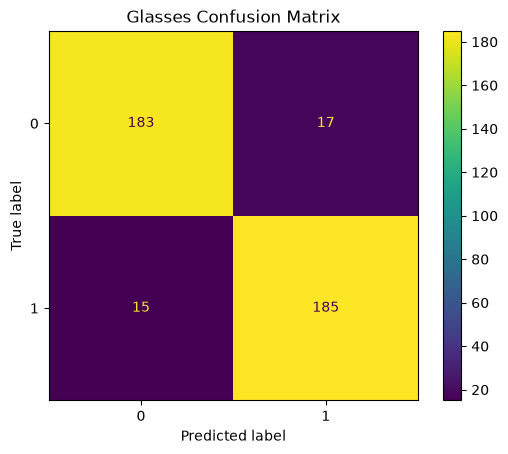
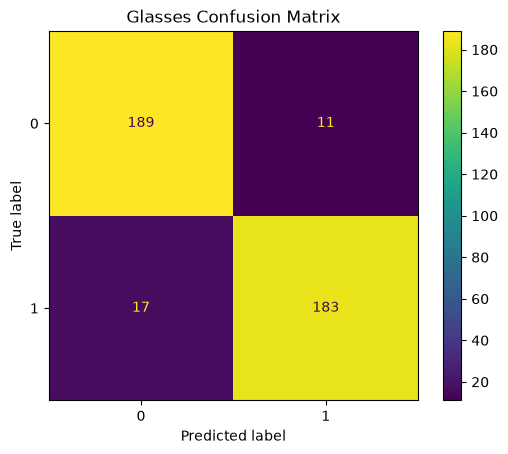
current bug with AI agent seeming to show reversed findings

diff --git a/Scripts/train_model.py b/Scripts/train_model.py
@@ -70,6 +70,9 @@ train_ds = tf.keras.utils.image_dataset_from_directory(
     shuffle=True
 )
 
+print("\nCLASS NAMES:")
+print(train_ds.class_names)
+
 val_ds = tf.keras.utils.image_dataset_from_directory(
     VAL_DIR,
     image_size=IMAGE_SIZE,

diff --git a/src/test_agent.py b/src/test_agent.py
@@ -26,6 +26,9 @@ results = predict_attributes(
     image_path
 )
 
+print("\nRAW MODEL OUTPUTS")
+print(results)
+
 print("\nPredictions")
 
 for attribute, value in results.items():
